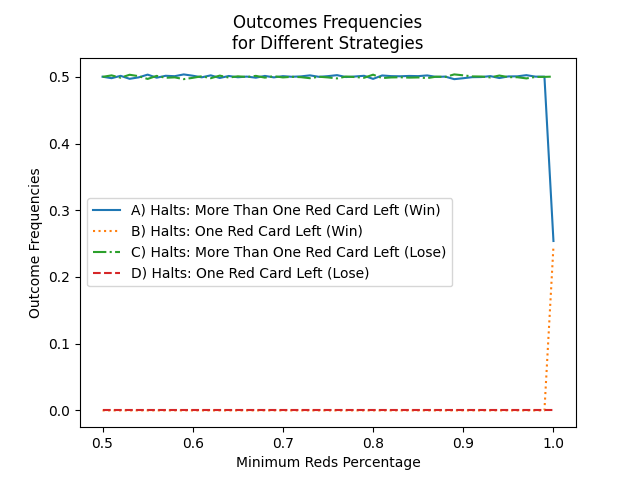
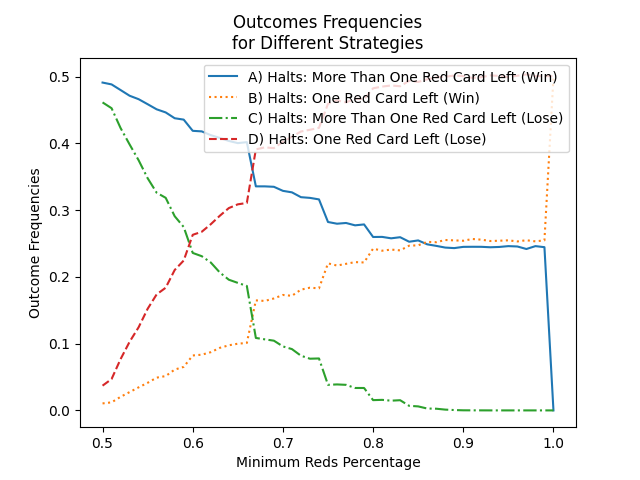
edited source code and README

diff --git a/src/strategy_outcomes.py b/src/strategy_outcomes.py
@@ -1,16 +1,14 @@
 #! /usr/bin/env python
 
-#Data Science Bookcamp
-#Task 1 Frequency Analysis for Strategry Outcomes
-
+# Data Science Bookcamp
+# Task 1 Frequency Analysis for Strategry Outcomes
 
 import numpy as np
 import matplotlib.pyplot as plt
 import click
-from lib import red_percentage_strat
 
 
-def red_percentage_strat_index(min_red_fraction):
+def red_percentage_strat_cards_remain(min_red_fraction):
     BLACK = 0
     RED = 1
     black_cards = 26 * [BLACK]
@@ -27,72 +25,88 @@ def red_percentage_strat_index(min_red_fraction):
                 break
         else:
             break
-    return i+1, shuffled_deck[i+1]
+    return shuffled_deck[i+1], red_cards_remaining
 
 
-def game_repetitions_index_list(fraction_of_red, number_of_repeats):
-	red_card_index_list = []
-	black_card_index_list = []
-	for i in range(number_of_repeats):
-		card_index, card_colour = red_percentage_strat_index(fraction_of_red)
-		if card_colour == 1:
-			red_card_index_list.append(card_index)
-		else:
-			black_card_index_list.append(card_index)
-	return red_card_index_list, black_card_index_list
+def game_repetitions_red_remaining_list(fraction_of_red, number_of_repeats):
+    red_card_index_list = []
+    black_card_index_list = []
+    for i in range(number_of_repeats):
+        card_colour, red_cards_remaining = red_percentage_strat_cards_remain(
+            fraction_of_red)
+        if card_colour == 1:
+            red_card_index_list.append(red_cards_remaining)
+        else:
+            black_card_index_list.append(red_cards_remaining)
+    return red_card_index_list, black_card_index_list
 
 
 def strategy_outcome_breakdown(fraction_of_red, number_of_repeats):
-	success_index_list, failure_index_list = game_repetitions_index_list(fraction_of_red, number_of_repeats)
-	red_more_than_one_successes = len([index for index in success_index_list if index < 51])
-	one_red_left_successes = len(success_index_list) - red_more_than_one_successes
-	red_more_than_one_failures = len([index for index in failure_index_list if index < 51])
-	one_red_left_failures = len(failure_index_list) - red_more_than_one_failures
-	results = np.array([red_more_than_one_successes, one_red_left_successes, red_more_than_one_failures, one_red_left_failures])
-	result_frequencies = results / number_of_repeats
-	return result_frequencies
+    success_index_list, failure_index_list = game_repetitions_red_remaining_list(
+        fraction_of_red, number_of_repeats)
+    red_more_than_one_successes = len(
+        [red_cards_remaining for red_cards_remaining in success_index_list if red_cards_remaining > 1])
+    one_red_left_successes = len(
+        success_index_list) - red_more_than_one_successes
+    red_more_than_one_failures = len(
+        [red_cards_remaining for red_cards_remaining in failure_index_list if red_cards_remaining > 1])
+    one_red_left_failures = len(failure_index_list) - \
+        red_more_than_one_failures
+    results = np.array([red_more_than_one_successes, one_red_left_successes,
+                        red_more_than_one_failures, one_red_left_failures])
+    result_frequencies = results / number_of_repeats
+    return result_frequencies
 
 
 def s_o_b_ranged_threshold(number_of_repeats):
-	red_more_than_one_successes_list = []
-	one_red_left_successes_list = []
-	red_more_than_one_failures_list = []
-	one_red_left_failures_list = []
-	fractions_of_red_list = []
-	for n in range(50, 101):
-		fraction_of_red = n / 100
-		result_frequencies = strategy_outcome_breakdown(fraction_of_red, number_of_repeats)
-		red_more_than_one_successes_list.append(result_frequencies[0])
-		one_red_left_successes_list.append(result_frequencies[1])
-		red_more_than_one_failures_list.append(result_frequencies[2])
-		one_red_left_failures_list.append(result_frequencies[3])
-		fractions_of_red_list.append(fraction_of_red)
-	result_frequency_dict = {'A':red_more_than_one_successes_list, 'B':one_red_left_successes_list, 'C':red_more_than_one_failures_list, 'D':one_red_left_failures_list}
-	return result_frequency_dict, fractions_of_red_list
+    red_more_than_one_successes_list = []
+    one_red_left_successes_list = []
+    red_more_than_one_failures_list = []
+    one_red_left_failures_list = []
+    fractions_of_red_list = []
+    for n in range(50, 101):
+        fraction_of_red = n / 100
+        result_frequencies = strategy_outcome_breakdown(
+            fraction_of_red, number_of_repeats)
+        red_more_than_one_successes_list.append(result_frequencies[0])
+        one_red_left_successes_list.append(result_frequencies[1])
+        red_more_than_one_failures_list.append(result_frequencies[2])
+        one_red_left_failures_list.append(result_frequencies[3])
+        fractions_of_red_list.append(fraction_of_red)
+    result_frequency_dict = {'A': red_more_than_one_successes_list, 'B': one_red_left_successes_list,
+                             'C': red_more_than_one_failures_list, 'D': one_red_left_failures_list}
+    return result_frequency_dict, fractions_of_red_list
 
 
 def generate_strategy_outcome_breakdown_graph(number_of_repeats):
-	result_frequency_dict, fractions_of_red_list = s_o_b_ranged_threshold(number_of_repeats)
-	plt.plot(fractions_of_red_list, result_frequency_dict['A'], '-', label='A) Halts: More Than One Red Card Left (Win)')
-	plt.plot(fractions_of_red_list, result_frequency_dict['B'], ':', label='B) Halts: One Red Card Left (Win)')
-	plt.plot(fractions_of_red_list, result_frequency_dict['C'], '-.', label='C) Halts: More Than One Red Card Left (Lose)')
-	plt.plot(fractions_of_red_list, result_frequency_dict['D'], '--', label='D) Halts: One Red Card Left (Lose)')
+    result_frequency_dict, fractions_of_red_list = s_o_b_ranged_threshold(
+        number_of_repeats)
+    plt.plot(fractions_of_red_list,
+             result_frequency_dict['A'], '-', label='A) Halts: More Than One Red Card Left (Win)')
+    plt.plot(fractions_of_red_list,
+             result_frequency_dict['B'], ':', label='B) Halts: One Red Card Left (Win)')
+    plt.plot(fractions_of_red_list,
+             result_frequency_dict['C'], '-.', label='C) Halts: More Than One Red Card Left (Lose)')
+    plt.plot(fractions_of_red_list,
+             result_frequency_dict['D'], '--', label='D) Halts: One Red Card Left (Lose)')
 
 
 @click.command()
 @click.option('--sob_repeats', default=100000, help='Number of repeats.')
 def strategy_outcome_breakdown_graph(sob_repeats):
-	generate_strategy_outcome_breakdown_graph(sob_repeats)
-	plt.xlabel('Minimum Reds Percentage')
-	plt.ylabel('Outcome Frequencies')
-	plt.title('Outcomes Frequencies\nfor Different Strategies')
-	plt.legend()
-	if sob_repeats >= 100000:
-		plt.savefig("outcome_freq_red_strategies.png")
-		plt.show()
-	else:
-		plt.show()
+    generate_strategy_outcome_breakdown_graph(sob_repeats)
+    plt.xlabel('Minimum Reds Percentage')
+    plt.ylabel('Outcome Frequencies')
+    plt.title()
+    plt.suptitle('Outcomes Frequencies for Different Strategies', fontsize=14, fontweight='bold')
+    plt.title(f"Game Repeats={sob_repeats}", fontsize=8)
+    plt.legend()
+    if sob_repeats >= 100000:
+        plt.savefig("outcome_freq_red_strategies.png")
+        plt.show()
+    else:
+        plt.show()
 
 
 if __name__ == '__main__':
-	strategy_outcome_breakdown_graph()
+    strategy_outcome_breakdown_graph()

diff --git a/src/confidence_intervals.py b/src/confidence_intervals.py
@@ -1,7 +1,7 @@
 #! /usr/bin/env python
 
 #Data Science Bookcamp
-#Task 1 Confidence Intervals For Probability of Strategy Success
+#Task 1 Confidence Intervals for Probability of Strategy Success
 
 import numpy as np
 import matplotlib.pyplot as plt
@@ -59,7 +59,7 @@ def compute_high_confidence_interval(likelihoods, bin_width, bin_edges, patches)
 
 
 @click.command()
-@click.option("--threshold",default=0.5, help="Red threshold")
+@click.option("--threshold",default=1.0, help="Red threshold")
 @click.option("--repeats", default=1000, help="Number of games")
 @click.option("--sample", default=10000, help="Sample size")
 def main(threshold, repeats, sample):
@@ -67,9 +67,21 @@ def main(threshold, repeats, sample):
     start_index, end_index = compute_high_confidence_interval(likelihoods, bin_width, bin_edges, patches)
     plt.xlabel('Binned Frequency')
     plt.ylabel('Relative Likelihood')
-    plt.title('Relative Likelihoods of\nWin Frequencies')
-    if sample * repeats >= 100000:
-        plt.savefig("confidence.png")
+    plt.suptitle('Relative Likelihoods of Win Frequencies', fontsize=14, fontweight='bold')
+    plt.title(f"Min Red Threshold={threshold}, Game Repeats={repeats}, Sample Size={sample}", fontsize=8)
+    if sample * repeats >= 10000:
+        if threshold == 0.5:
+            plt.savefig("confidence_histogram_50.png")
+        if threshold == 0.6:
+            plt.savefig("confidence_histogram_60.png")
+        if threshold == 0.7:
+            plt.savefig("confidence_histogram_70.png")
+        if threshold == 0.8:
+            plt.savefig("confidence_histogram_80.png")
+        if threshold == 0.9:
+            plt.savefig("confidence_histogram_90.png")
+        if threshold == 1.0:
+            plt.savefig("confidence_histogram_100.png")
         plt.show()
     else:
         plt.show()

diff --git a/README.md b/README.md
@@ -1,15 +1,34 @@
 # Game Strategies Project
 
-## **main()** Function: (thresh=0.5, repeats=1000, sample=10000)
+## main() Function:
 Our strategy for the game is simulated by our first function **red_percentage_strat**. We specify a minimum fraction of red cards, which is the required argument for this function (*min_red_fraction*). If the number of red cards remaining, divided by the total number of remaining cards, is larger than our minimum fraction of red cards at any point, then the game is halted. The next card is turned over and we find out if we win or lose (where 1 represents a win and 0 represents a loss). If, however, the number of red cards remaining eventually decreases to 1, then the game is automatically halted and the next card that is turned over determines a win or a loss.
 
 The **main()** function takes as arguments minimum red fraction (*threshold*, default=0.5) for our strategy, as well as the number of times the game is repeated to calculate one win frequency (*repeats*, default=100), and finally the sample size (*sample*, default = 100), i.e. the number of frequencies computed.
 
-This function finds the frequency of wins for each group of game repetitions, doing this *n* times (sample size=*n*) for the given minimum red fraction. The function then uses this data to form a histogram, plotting binned frequencies of wins against their associated relative likelihoods. The final step for this function is to compute a high-confidence interval (minimum 95%) for this histogram in order to provide a range of win frequencies that our strategy win probability is highly likely to fall within.
+This function finds the frequency of wins for each group of game repetitions, doing this *n* times (sample size=*n*) for the given minimum red fraction. The function then uses this data to form a histogram, plotting binned frequencies of wins against their associated relative likelihoods. The final step for this function is to compute and return a high-confidence interval (minimum 95%) for this histogram in order to provide a range of win frequencies that our strategy win probability is highly likely to fall within.
 
-![GitHub Logo](/src/confidence.png)
-Format: ![Alt Text](url)
-*Histogram computed using game repeats=1000, sample size=10000 and minimum red threshold*
+### Histogram Analysis of Win Frequencies
+
+![Win Frequencies Histogram](/src/win_freq_histograms/confidence_histogram_50.png)
+*Histogram computed using game repeats=1000, sample size=10000 and minimum red threshold=0.5. The frequency range 0.470500 - 0.533533 represents a 95.38% confidence interval.*
+Format: ![Histograms with different minimum red fractions](/src/freq_histograms/)
+
+![Win Frequencies Histogram](/src/win_freq_histograms/confidence_histogram_60.png)
+*Histogram computed using game repeats=1000, sample size=10000 and minimum red threshold=0.6. The frequency range 0.469770 - 0.533066 represents a 95.77% confidence interval.*
+
+![Win Frequencies Histogram](/src/win_freq_histograms/confidence_histogram_70.png)
+*Histogram computed using game repeats=1000, sample size=10000 and minimum red threshold=0.7. The frequency range 0.467951 - 0.527918 represents a 95.58% confidence interval.*
+
+![Win Frequencies Histogram](/src/win_freq_histograms/confidence_histogram_80.png)
+*Histogram computed using game repeats=1000, sample size=10000 and minimum red threshold=0.8. The frequency range 0.467308 - 0.529785 represents a 95.99% confidence interval.*
+
+![Win Frequencies Histogram](/src/win_freq_histograms/confidence_histogram_90.png)
+*Histogram computed using game repeats=1000, sample size=10000 and minimum red threshold=0.9. The frequency range 0.466200 - 0.528764 represents a 95.68% confidence interval.*
+
+![Win Frequencies Histogram](/src/win_freq_histograms/confidence_histogram_100.png)
+*Histogram computed using game repeats=1000, sample size=10000 and minimum red threshold=1.0. The frequency range 0.468761 - 0.529014 represents a 95.32% confidence interval.*
+
+We can see that for each different minimum red threshold value, the histograms take the shape of a Normal distribution, each centred approximately around the frequency 0.5. All of the confidence intervals that have been generated are over very similar ranges. The most favourable frequency range for odds of winning is 0.470500 - 0.533533, which occurs when the minimum red threshold is 0.5. It could be argued that this suggests that the first strategy will yield the highest frequency of wins, however the difference in ranges for the thresholds is negligable enough to say that this difference may just be down to random chance.
 
 ## **strategy_outcome_breakdown_graph()** Function: (n=100000)
 The function **strategy_outcome_breakdown_graph()** is used to analyse the occurrence of each of 4 different possible outcomes of our game strategy:
@@ -19,12 +38,12 @@ The function **strategy_outcome_breakdown_graph()** is used to analyse the occur
 1. Halts: More Than One Red Card Left (Lose)
 1. Halts: One Red Card Left (Lose)
 
-We use our **red_percentage_strat**function, with *return_index=True* so the function returns the final card flipped over (win or loss) as well as this card’s index.
+We use the **red_percentage_strat_index** function, which is a similar to our **red_percentage_strat** function, however it has been modified so the function returns the final card flipped over (win or loss) as well as the number of red cards remaining. Using each pair of values for card colour and remaining red cards, we may sort each game simulation into one of the 4 outcome types listed above.
 
-When we use **red_percentage_strat** in this way, it can be used to log the index of the card turned over at the end of each game. Using each index, we may sort each outcome into one of the 4 outcome types below:
+**strategy_outcome_breakdown_graph()** takes as an argument the number of repeats for the game (*sob_repeats*, default=10000). The function repeats the game *n* times (*sob_repeats=n*), logging each different type of outcome and adding them to the relevant count of each outcome type. The counts are then each divided by the total number of games played, in order to find out their frequancies of occurence. This is done for every single minimum red fraction from 0.5 up to, and including, 1.0. We then plot a graph showing how the relative frequency of each outcome type is affected by changes in the minimum red fraction used for our strategy.
 
-takes as an argument the *number of repeats* for the game (default = 10000).
+###Graphical Analysis of Relative Frequencies of Different Outcomes
+
+![Frequency Graph of Different Outcomes](/src/outcome_freq_red_strategies.png)
 
 
-
-The function repeats the game m times (number of repeats = m), logging each different type of outcome, adding them to the relevant count of each outcome type, and then uses these counts to find relative frequencies. This is done for every single minimum red fraction for 0.5 up to, and including, 1.0. We then plot a graph showing how the relative frequency of each outcome type is affected by changes in the minimum red fraction used for our strategy.
